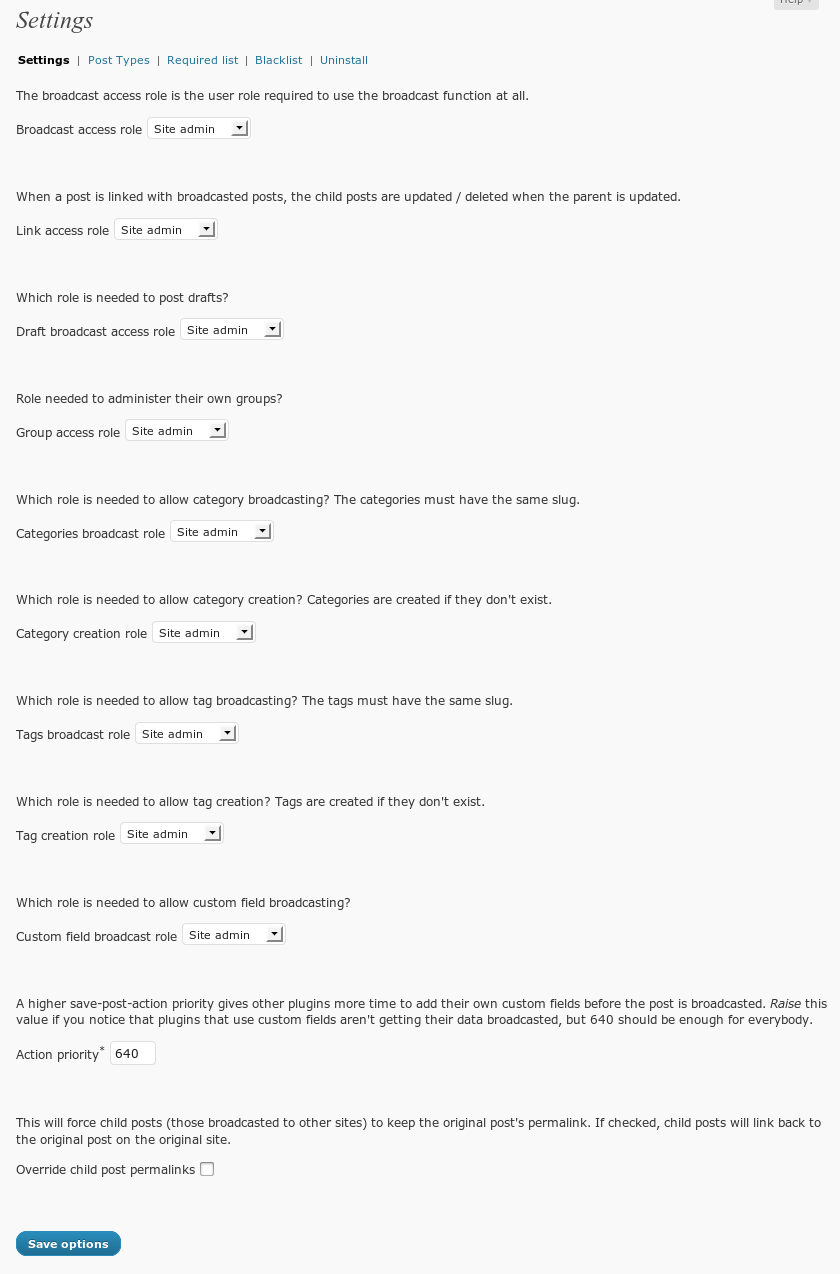
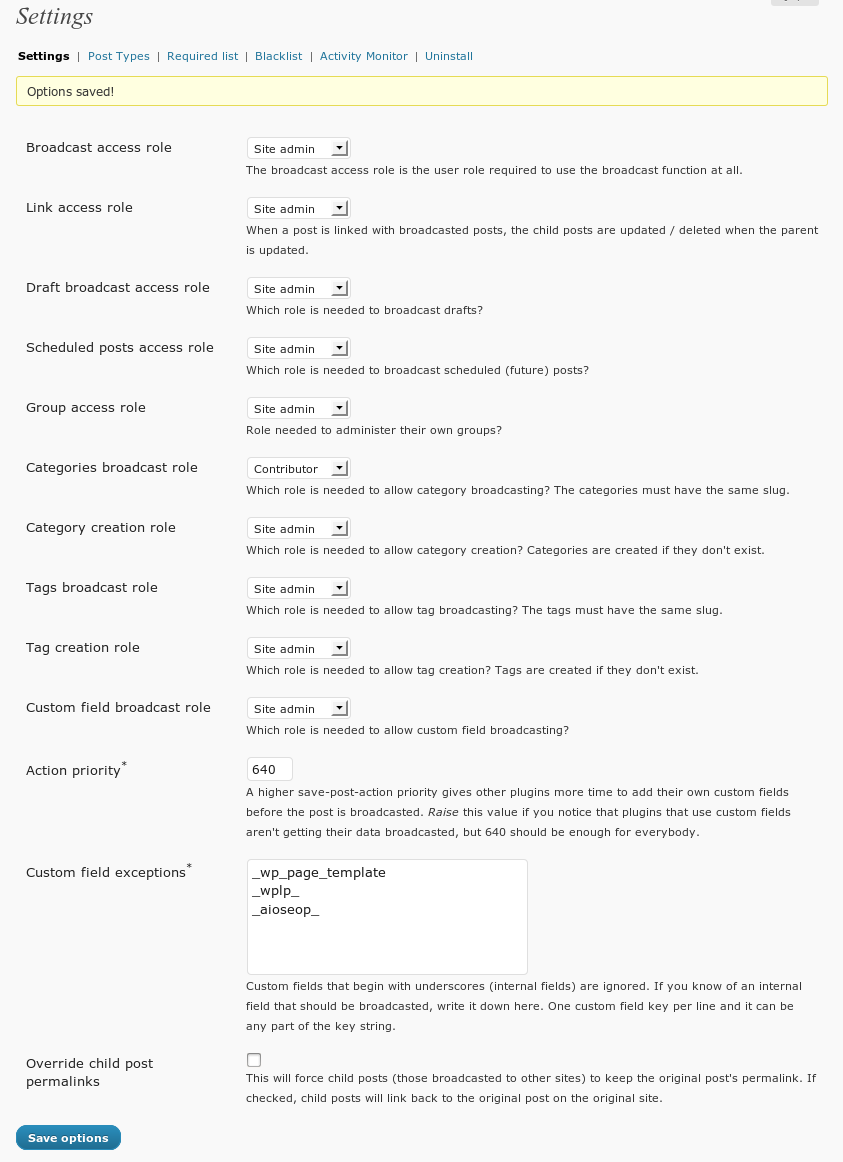
1.2.1
git-svn-id: https://plugins.svn.wordpress.org/threewp-broadcast/trunk@334278 b8457f37-d9ea-0310-8a92-e5e31aec5664

diff --git a/ThreeWP_Broadcast.php b/ThreeWP_Broadcast.php
@@ -3,7 +3,7 @@
 Plugin Name: ThreeWP Broadcast
 Plugin URI: http://mindreantre.se/threewp-activity-monitor/
 Description: Network plugin to broadcast a post to other blogs. Whitelist, blacklist, groups and automatic category+tag+custom field posting/creation available. 
-Version: 1.2
+Version: 1.2.1
 Author: Edward Hevlund
 Author URI: http://www.mindreantre.se
 Author Email: edward@mindreantre.se
@@ -33,10 +33,7 @@ class ThreeWP_Broadcast extends ThreeWP_Broadcast_3Base
 		'override_child_permalinks' => false,				// Make the child's permalinks link back to the parent item?
 		'activity_monitor_group_changes' => false,			// Reports when a user has created, changed or deleted a group (of blogs)
 		'activity_monitor_unlinks' => false,				// Reports when someone unlinks a child from the parent.
-	);
-	
-	private $custom_field_exceptions = array(
-		'_wp_page_template',								// Page template.
+		'custom_field_exceptions' => array('_wp_page_template', '_wplp_', '_aioseop_'),				// Custom fields that should be broadcasted, even though they start with _
 	);
 	
 	private $blogs_cache = null;
@@ -198,8 +195,12 @@ class ThreeWP_Broadcast extends ThreeWP_Broadcast_3Base
 			
 		if (isset($_POST['save']))
 		{
+			// Save the exceptions
+			$custom_field_exceptions = str_replace( "\r", "", trim($_POST['custom_field_exceptions']) );
+			$custom_field_exceptions = explode("\n", $custom_field_exceptions );
 			$this->update_site_option('save_post_priority', intval($_POST['save_post_priority']));
 			$this->update_site_option('override_child_permalinks', isset($_POST['override_child_permalinks']) );
+			$this->update_site_option('custom_field_exceptions', $custom_field_exceptions );
 			foreach(array('role_broadcast', 'role_link', 'role_broadcast_as_draft', 'role_broadcast_scheduled_posts', 'role_groups', 'role_categories', 'role_categories_create', 'role_tags', 'role_tags_create', 'role_custom_fields') as $key)
 				$this->update_site_option($key, (isset($roles[$_POST[$key]]) ? $_POST[$key] : 'super_admin'));
 			$this->message('Options saved!');
@@ -258,6 +259,7 @@ class ThreeWP_Broadcast extends ThreeWP_Broadcast_3Base
 				'value' => $this->get_site_option('role_categories'),
 				'description' => 'Which role is needed to allow category broadcasting? The categories must have the same slug.',
 				'options' => $roles,
+				'make_table_row' => true,		// Just a marker to tell the function to automake this input in the table.
 			),
 			'role_categories_create' => array(
 				'name' => 'role_categories_create',
@@ -303,6 +305,16 @@ class ThreeWP_Broadcast extends ThreeWP_Broadcast_3Base
 				'size' => 3,
 				'maxlength' => 10,
 				'description' => 'A higher save-post-action priority gives other plugins more time to add their own custom fields before the post is broadcasted. <em>Raise</em> this value if you notice that plugins that use custom fields aren\'t getting their data broadcasted, but 640 should be enough for everybody.',
+				'make_table_row' => true,		// Just a marker to tell the function to automake this input in the table.
+			),
+			'custom_field_exceptions' => array(
+				'name' => 'custom_field_exceptions',
+				'type' => 'textarea',
+				'label' => 'Custom field exceptions',
+				'value' => implode("\n", $this->get_site_option('custom_field_exceptions')),
+				'cols' => 30,
+				'rows' => 5,
+				'description' => 'Custom fields that begin with underscores (internal fields) are ignored. If you know of an internal field that should be broadcasted, write it down here. One custom field key per line and it can be any part of the key string.',
 				'make_table_row' => true,		// Just a marker to tell the function to automake this input in the table.
 			),
 			'override_child_permalinks' => array(
@@ -1349,9 +1361,7 @@ class ThreeWP_Broadcast extends ThreeWP_Broadcast_3Base
 			}
 			
 			// Remove all the _internal custom fields.
-			foreach($postCustomFields as $key => $array)
-				if ( strpos($key, '_') === 0 && !in_array($key, $this->custom_field_exceptions) )
-					unset( $postCustomFields[$key] );
+			$postCustomFields = $this->keep_valid_custom_fields($postCustomFields);
 		}
 		
 		// Sticky isn't a tag, cat or custom_field.
@@ -1498,28 +1508,20 @@ class ThreeWP_Broadcast extends ThreeWP_Broadcast_3Base
 			
 			if ($custom_fields)
 			{
-				// If we're updating a linked post, remove all the tags and start from the top.
-				if ($link)
-					if ($broadcast_data->has_linked_child_on_this_blog())
+				// Remove all old custom fields.
+				$old_custom_fields = get_post_custom($new_post_id);
+
+				foreach($old_custom_fields as $key => $value)
+				{
+					// This post has a featured image! Remove it from disk!
+					if ($key == '_thumbnail_id')
 					{
-						// Remove all old custom fields.
-						$old_custom_fields = get_post_custom($new_post_id);
-						foreach($old_custom_fields as $key => $value)
-							if (strpos($key, '_') !== 0) // But only the normal custom fields, not the _internal ones that Wordpress creates.
-							{
-								// Remove the key
-								delete_post_meta($new_post_id, $key);
-							}
-							else
-							{
-								// This post has a featured image! Remove it from disk!
-								if ($key == '_thumbnail_id')
-								{
-									$thumbnail_post = $value[0];
-									wp_delete_post($thumbnail_post);
-								}
-							}
+						$thumbnail_post = $value[0];
+						wp_delete_post($thumbnail_post);
 					}
+					
+					delete_post_meta($new_post_id, $key);
+				}
 				
 				foreach($postCustomFields as $meta_key => $meta_value)
 					update_post_meta($new_post_id, $meta_key, $meta_value);
@@ -2082,6 +2084,30 @@ class ThreeWP_Broadcast extends ThreeWP_Broadcast_3Base
 					</div>
 				</td>
 			</tr>';
+	}
+	
+	private function keep_valid_custom_fields($custom_fields)
+	{
+		foreach($custom_fields as $key => $array)
+			if ( !$this->is_custom_field_valid($key) )
+				unset( $custom_fields[$key] ); 
+
+		return $custom_fields;
+	}
+	
+	private function is_custom_field_valid($custom_field)
+	{
+		if ( !isset($this->custom_field_exceptions_cache) )
+			$this->custom_field_exceptions_cache = $this->get_site_option('custom_field_exceptions');
+
+		if ( strpos($custom_field, '_') !== 0 )
+			return true;
+		
+		foreach($this->custom_field_exceptions_cache as $exception)
+			if (strpos($custom_field, $exception) !== false )
+				return true;
+		
+		return false;
 	}
 	
 	// --------------------------------------------------------------------------------------------
